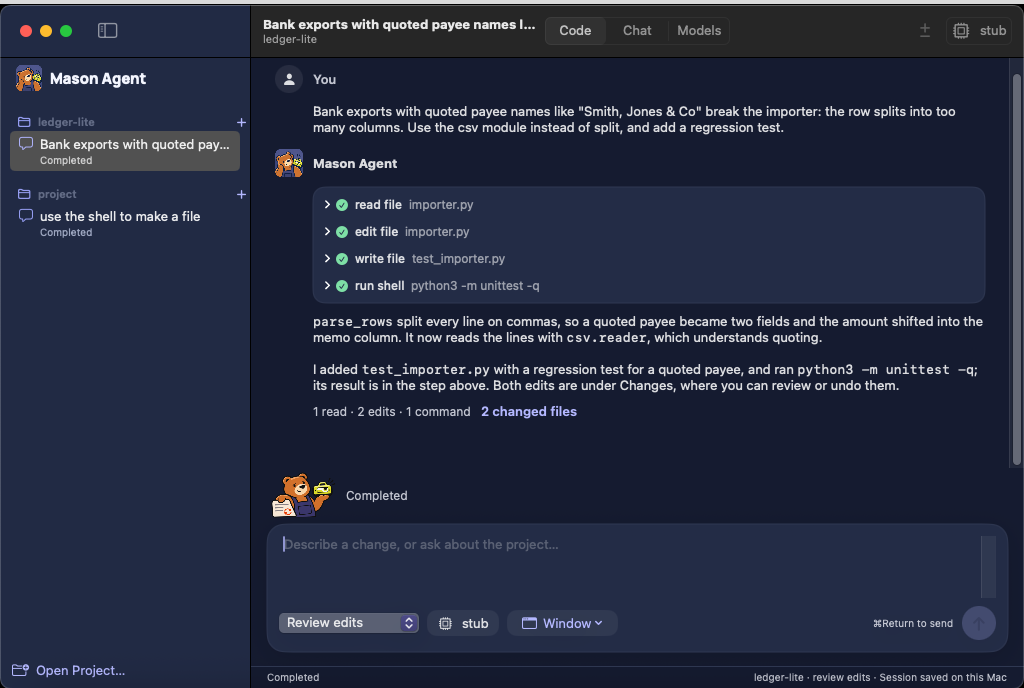
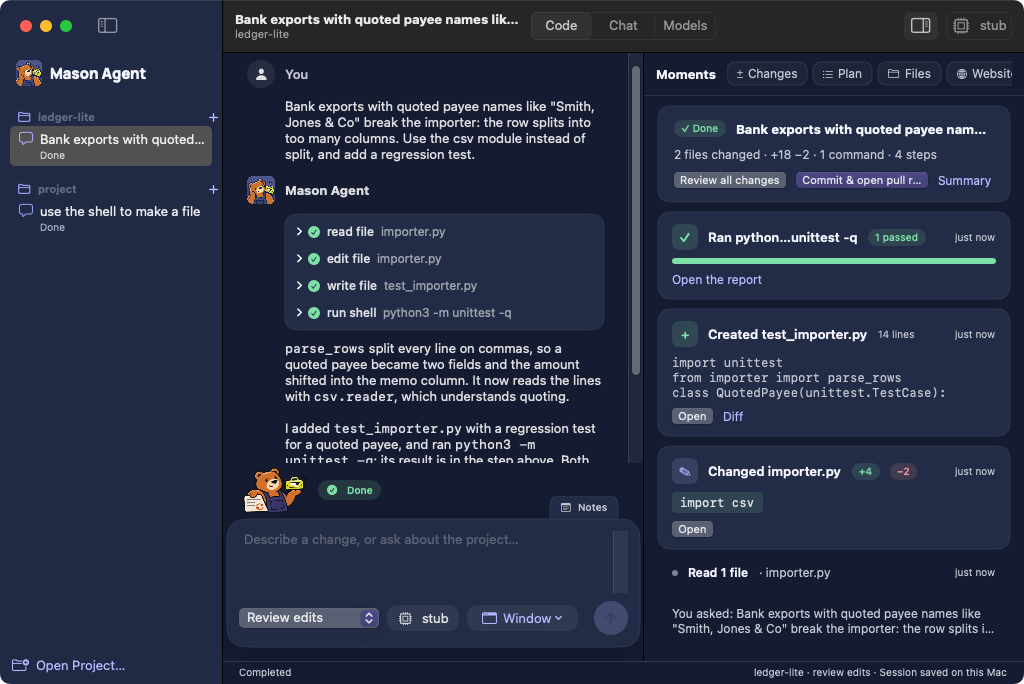
Site: the macOS picture shows Moments
Taken by the macOS CI run of this branch: the ledger-lite demo with Moments
open (window only, 1024x684).

diff --git a/site/index.html b/site/index.html
@@ -195,7 +195,7 @@
       <p class="section-lede">The Windows, macOS and Linux apps do the same things, and each one looks and behaves like it belongs on its system.</p>
       <div class="gallery">
         <figure class="shot">
-          <img src="assets/mac-app.png" width="1024" height="688" loading="lazy" decoding="async" alt="Mason Agent on macOS in dark mode: a request to fix a CSV importer, the four steps Mason took, its explanation and the completed pose">
+          <img src="assets/mac-app.png" width="1024" height="684" loading="lazy" decoding="async" alt="Mason Agent on macOS in dark mode: a request to fix a CSV importer, the four steps Mason took and its explanation, with Moments beside it showing the end-of-run card, the passing test, the new test file and the change">
           <figcaption>macOS</figcaption>
         </figure>
         <figure class="shot">
